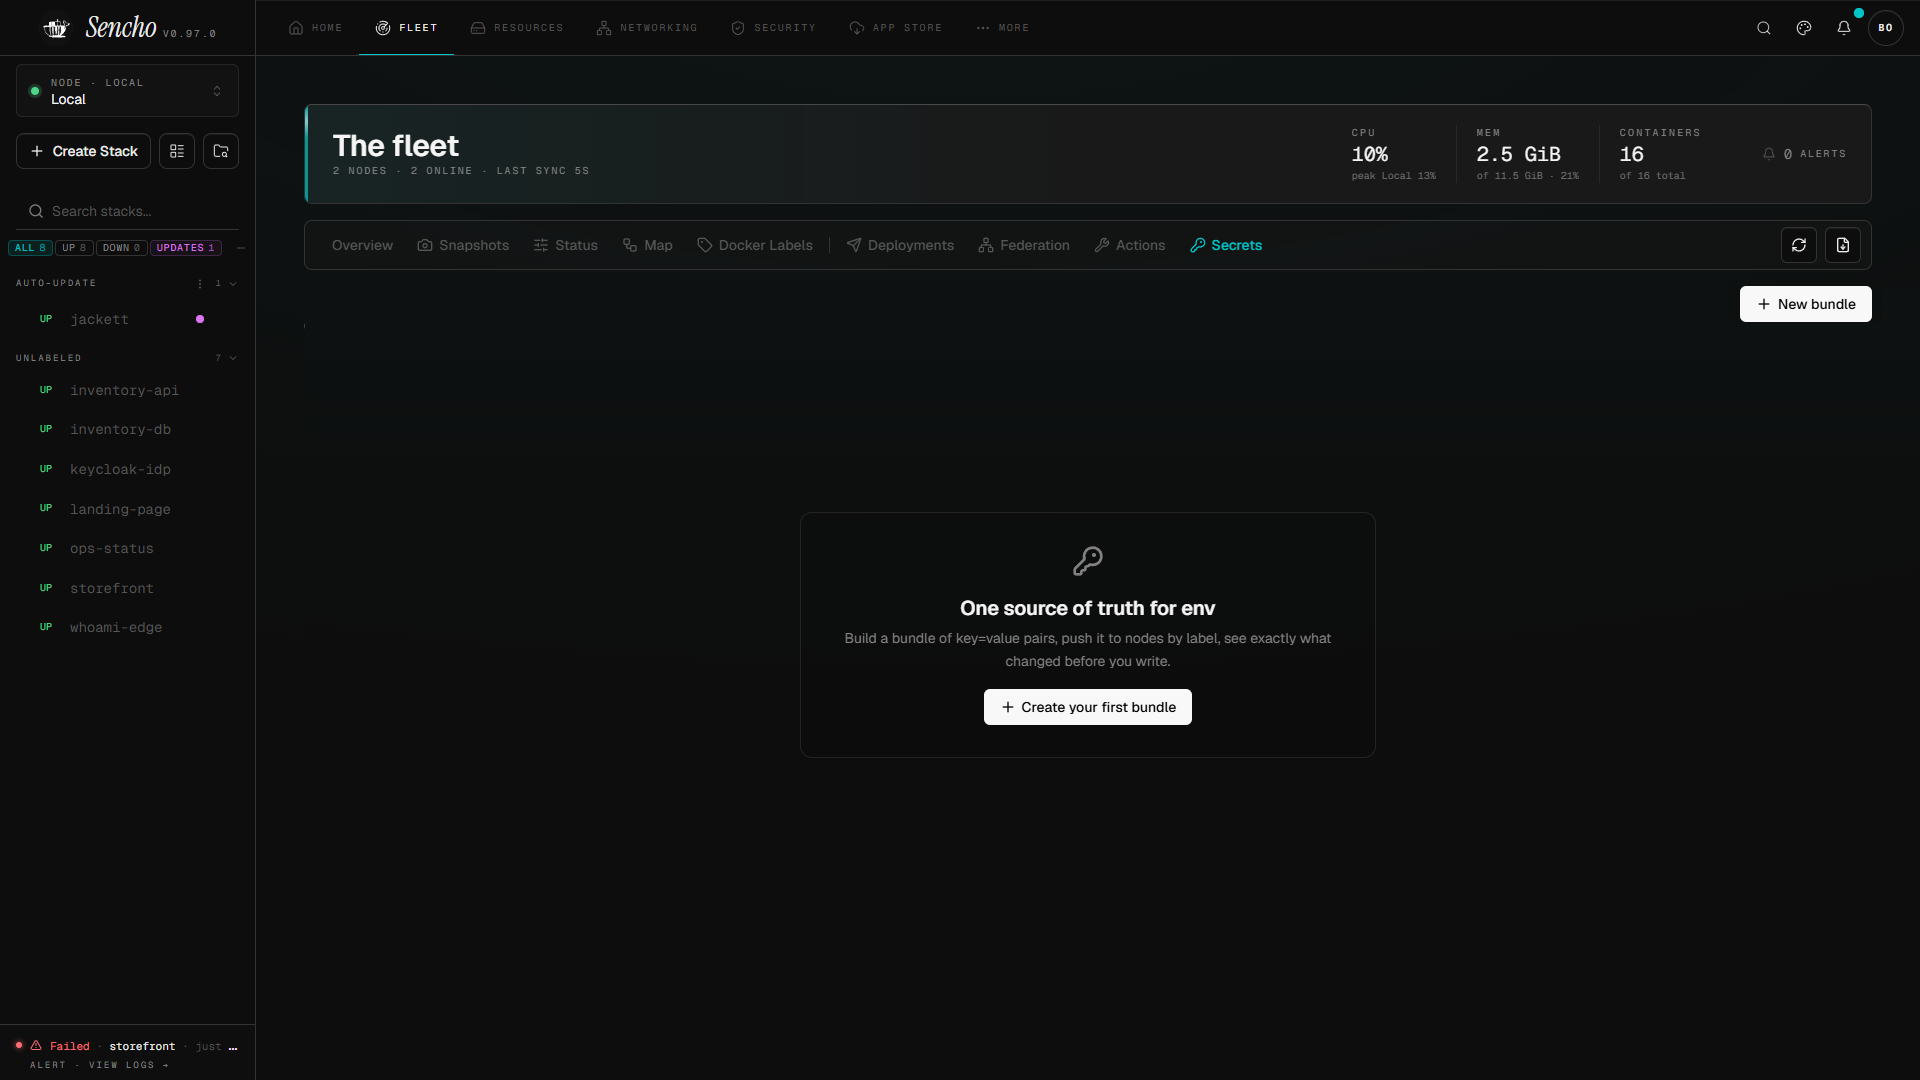
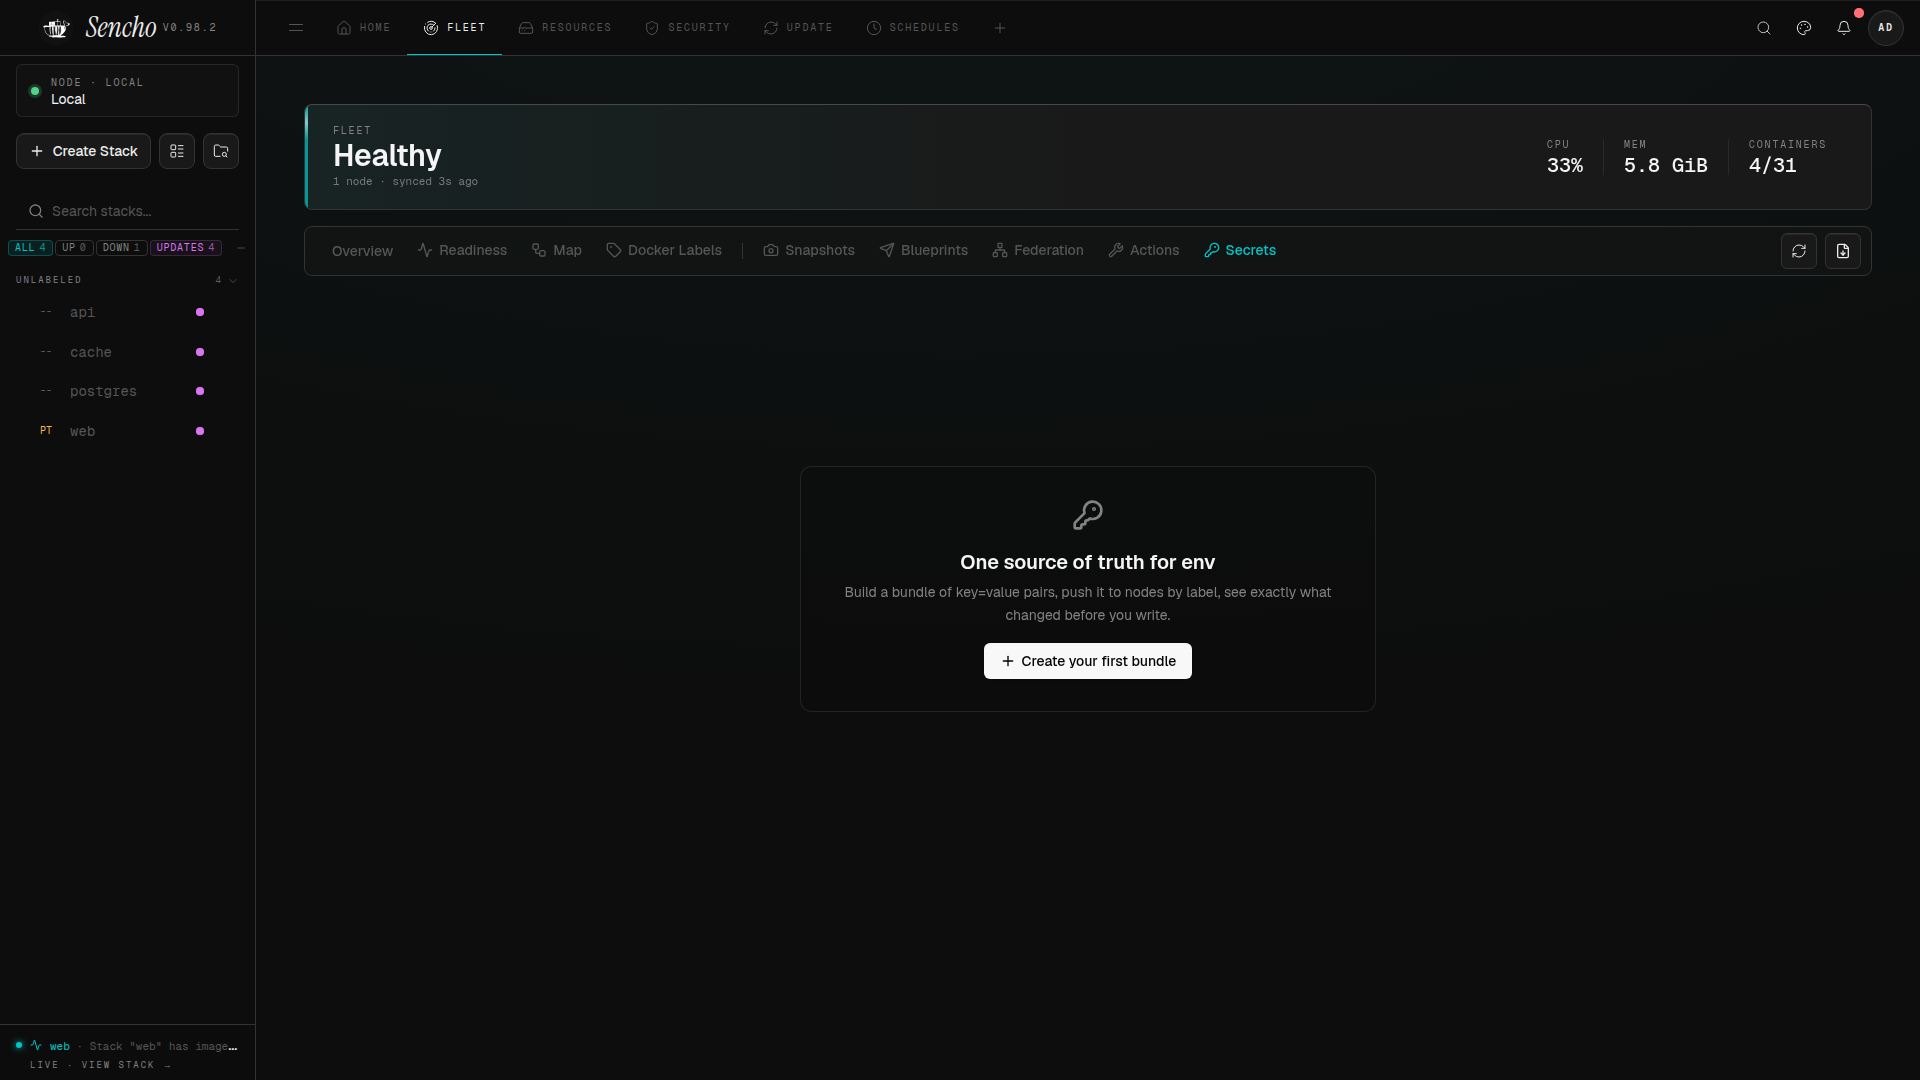
fix(fleet): keep one create action in empty snapshots and secrets tabs (#2275)
* fix(fleet): keep one create action in empty snapshots and secrets tabs

The empty card now carries the only create button while the list is empty,
and the tab action row returns with the populated list. The Snapshots pager
still renders its row whenever the list needs pagination.

Tests cover the empty and populated states for both tabs, and the empty
Secrets tutorial screenshot is refreshed to the current layout.

* test(fleet): cover the empty-state transitions for snapshots and secrets

Adds the non-admin, loading, delete-to-empty, and create-from-empty cases for
both tabs, tightens the create-button selectors to the two real labels, and
updates the tutorial and feature page to name the button each state offers.

diff --git a/frontend/src/components/__tests__/FleetSnapshots.test.tsx b/frontend/src/components/__tests__/FleetSnapshots.test.tsx
@@ -553,4 +553,152 @@ describe('FleetSnapshots action row', () => {
       authState.isAdmin = true;
     }
   });
+
+  it('renders no Create Snapshot button for a non-admin in the empty state', async () => {
+    mockedFetch.mockImplementation(async (path: string) => {
+      if (path === '/fleet/snapshots') {
+        return { ok: true, json: async () => ({ snapshots: [], total: 0 }) } as Response;
+      }
+      return { ok: true, json: async () => ({}) } as Response;
+    });
+    authState.isAdmin = false;
+    try {
+      render(<FleetSnapshots />);
+      await screen.findByText('No snapshots yet');
+      expect(screen.queryByRole('button', { name: /Create Snapshot/ })).not.toBeInTheDocument();
+    } finally {
+      authState.isAdmin = true;
+    }
+  });
+
+  it('offers a single Create Snapshot button in the empty state and opens the form', async () => {
+    mockedFetch.mockImplementation(async (path: string) => {
+      if (path === '/fleet/snapshots') {
+        return { ok: true, json: async () => ({ snapshots: [], total: 0 }) } as Response;
+      }
+      return { ok: true, json: async () => ({}) } as Response;
+    });
+
+    render(<FleetSnapshots />);
+    await screen.findByText('No snapshots yet');
+
+    const createButtons = screen.getAllByRole('button', { name: /Create Snapshot/ });
+    expect(createButtons).toHaveLength(1);
+    fireEvent.click(createButtons[0]);
+
+    expect(screen.getByPlaceholderText('Snapshot description (optional)')).toBeInTheDocument();
+    expect(screen.queryByRole('button', { name: /Create Snapshot/ })).not.toBeInTheDocument();
+  });
+
+  it('keeps the pager and one Create Snapshot button once the list is populated', async () => {
+    mockedFetch.mockImplementation(async (path: string) => {
+      if (path === '/fleet/snapshots') {
+        return {
+          ok: true,
+          json: async () => ({
+            snapshots: Array.from({ length: 11 }, (_, i) => ({
+              id: i + 1, description: `snapshot ${i + 1}`, created_by: 'admin', node_count: 1, stack_count: 1,
+              skipped_nodes: '[]', skipped_stacks: '[]', created_at: Date.now(), has_documentation: 0,
+            })),
+            total: 11,
+          }),
+        } as Response;
+      }
+      return { ok: true, json: async () => ({}) } as Response;
+    });
+
+    render(<FleetSnapshots />);
+    await screen.findByText('snapshot 1');
+
+    expect(screen.getByText('1 / 2')).toBeInTheDocument();
+    expect(screen.getAllByRole('button', { name: /Create Snapshot/ })).toHaveLength(1);
+    expect(screen.queryByText('No snapshots yet')).toBeNull();
+  });
+
+  it('keeps the row action while loading, then hands it to the empty card', async () => {
+    let resolveList: (value: Response) => void = () => {};
+    const pending = new Promise<Response>((resolve) => { resolveList = resolve; });
+    mockedFetch.mockImplementation(async (path: string) => {
+      if (path === '/fleet/snapshots') return pending;
+      return { ok: true, json: async () => ({}) } as Response;
+    });
+
+    render(<FleetSnapshots />);
+    expect(await screen.findByRole('button', { name: /Create Snapshot/ })).toBeInTheDocument();
+    expect(screen.queryByText('No snapshots yet')).toBeNull();
+
+    resolveList({ ok: true, json: async () => ({ snapshots: [], total: 0 }) } as Response);
+    await screen.findByText('No snapshots yet');
+    expect(screen.getAllByRole('button', { name: /Create Snapshot/ })).toHaveLength(1);
+  });
+
+  it('returns to the empty card when the last snapshot is deleted', async () => {
+    mockedFetch.mockImplementation(async (path: string, options?: Parameters<typeof apiFetch>[1]) => {
+      if (path === '/fleet/snapshots' && options?.method !== 'DELETE') {
+        return {
+          ok: true,
+          json: async () => ({
+            snapshots: [{
+              id: 1, description: 'one', created_by: 'admin', node_count: 1, stack_count: 1,
+              skipped_nodes: '[]', skipped_stacks: '[]', created_at: Date.now(), has_documentation: 0,
+            }],
+            total: 1,
+          }),
+        } as Response;
+      }
+      if (path === '/fleet/snapshots/1' && options?.method === 'DELETE') {
+        return { ok: true, json: async () => ({ success: true }) } as Response;
+      }
+      return { ok: true, json: async () => ({}) } as Response;
+    });
+
+    render(<FleetSnapshots />);
+    const row = (await screen.findByText('one')).closest('tr');
+    expect(row).not.toBeNull();
+    const rowButtons = within(row as HTMLElement).getAllByRole('button');
+    fireEvent.click(rowButtons[rowButtons.length - 1]);
+
+    const dialog = await screen.findByRole('alertdialog');
+    fireEvent.click(within(dialog).getByRole('button', { name: 'Delete' }));
+
+    await screen.findByText('No snapshots yet');
+    expect(screen.getAllByRole('button', { name: /Create Snapshot/ })).toHaveLength(1);
+  });
+
+  it('moves from the empty card to the populated row after creating a snapshot', async () => {
+    let created = false;
+    mockedFetch.mockImplementation(async (path: string, options?: Parameters<typeof apiFetch>[1]) => {
+      if (path === '/fleet/snapshots' && options?.method === 'POST') {
+        created = true;
+        return { ok: true, json: async () => ({ id: 1 }) } as Response;
+      }
+      if (path === '/fleet/snapshots') {
+        return {
+          ok: true,
+          json: async () => ({
+            snapshots: created
+              ? [{
+                id: 1, description: 'fresh', created_by: 'admin', node_count: 1, stack_count: 1,
+                skipped_nodes: '[]', skipped_stacks: '[]', created_at: Date.now(), has_documentation: 0,
+              }]
+              : [],
+            total: created ? 1 : 0,
+          }),
+        } as Response;
+      }
+      return { ok: true, json: async () => ({}) } as Response;
+    });
+
+    render(<FleetSnapshots />);
+    await screen.findByText('No snapshots yet');
+    fireEvent.click(screen.getByRole('button', { name: /Create Snapshot/ }));
+    fireEvent.change(screen.getByPlaceholderText('Snapshot description (optional)'), {
+      target: { value: 'fresh' },
+    });
+    fireEvent.click(screen.getByRole('button', { name: /^Create$/ }));
+
+    await screen.findByText('fresh');
+    expect(screen.queryByText('No snapshots yet')).toBeNull();
+    expect(screen.getAllByRole('button', { name: /Create Snapshot/ })).toHaveLength(1);
+  });
 });

diff --git a/frontend/src/components/fleet/secrets/SecretsTab.test.tsx b/frontend/src/components/fleet/secrets/SecretsTab.test.tsx
@@ -1,0 +1,93 @@
+/**
+ * SecretsTab: one create affordance per state. The empty card owns the call to
+ * action; the tab action row returns with the bundle list.
+ */
+import { describe, it, expect, vi, beforeEach, afterEach } from 'vitest';
+import { render, screen, waitFor } from '@testing-library/react';
+import userEvent from '@testing-library/user-event';
+import type { SecretSummary } from '@/lib/secretsApi';
+
+vi.mock('@/lib/secretsApi', async (importOriginal) => {
+    const actual = await importOriginal<typeof import('@/lib/secretsApi')>();
+    return {
+        ...actual,
+        listSecrets: vi.fn(),
+        deleteSecret: vi.fn(),
+    };
+});
+
+vi.mock('@/components/ui/toast-store', () => ({
+    toast: { error: vi.fn(), success: vi.fn(), warning: vi.fn(), info: vi.fn(), loading: vi.fn(), dismiss: vi.fn() },
+}));
+
+vi.mock('@/context/NodeContext', () => ({
+    useNodes: () => ({ nodes: [] }),
+}));
+
+import { deleteSecret, listSecrets } from '@/lib/secretsApi';
+import { SecretsTab } from './SecretsTab';
+
+const bundle: SecretSummary = {
+    id: 4,
+    name: 'app-config',
+    description: 'Shared environment for the app stack',
+    currentVersion: 1,
+    keyCount: 2,
+    createdAt: 0,
+    createdBy: 'admin',
+    updatedAt: 0,
+};
+
+const createButtons = () => screen.queryAllByRole('button', { name: /^(New bundle|Create your first bundle)$/ });
+
+beforeEach(() => {
+    vi.clearAllMocks();
+});
+
+afterEach(() => {
+    vi.restoreAllMocks();
+});
+
+describe('SecretsTab create affordance', () => {
+    it('offers a single create button in the empty state and opens the bundle sheet', async () => {
+        vi.mocked(listSecrets).mockResolvedValue([]);
+        render(<SecretsTab />);
+
+        await waitFor(() => expect(screen.getByText('One source of truth for env')).toBeInTheDocument());
+        expect(screen.queryByRole('button', { name: 'New bundle' })).toBeNull();
+        const create = screen.getByRole('button', { name: /Create your first bundle/i });
+        expect(createButtons()).toHaveLength(1);
+
+        await userEvent.click(create);
+        expect(await screen.findByText('New secret bundle')).toBeInTheDocument();
+    });
+
+    it('keeps the action row button and drops the empty card once bundles exist', async () => {
+        vi.mocked(listSecrets).mockResolvedValue([bundle]);
+        render(<SecretsTab />);
+
+        await waitFor(() => expect(screen.getByText('app-config')).toBeInTheDocument());
+        expect(screen.queryByText('One source of truth for env')).toBeNull();
+        expect(createButtons()).toHaveLength(1);
+        expect(screen.getByRole('button', { name: 'New bundle' })).toBeInTheDocument();
+
+        await userEvent.click(screen.getByRole('button', { name: 'New bundle' }));
+        expect(await screen.findByText('New secret bundle')).toBeInTheDocument();
+    });
+
+    it('returns to the empty card when the last bundle is deleted', async () => {
+        vi.spyOn(window, 'confirm').mockReturnValue(true);
+        vi.mocked(listSecrets).mockResolvedValueOnce([bundle]).mockResolvedValueOnce([]);
+        vi.mocked(deleteSecret).mockResolvedValue();
+
+        render(<SecretsTab />);
+        await waitFor(() => expect(screen.getByText('app-config')).toBeInTheDocument());
+        expect(createButtons()).toHaveLength(1);
+
+        await userEvent.click(screen.getByRole('button', { name: 'Delete' }));
+
+        await waitFor(() => expect(screen.getByText('One source of truth for env')).toBeInTheDocument());
+        expect(createButtons()).toHaveLength(1);
+        expect(screen.getByRole('button', { name: 'Create your first bundle' })).toBeInTheDocument();
+    });
+});

diff --git a/frontend/src/components/FleetSnapshots.tsx b/frontend/src/components/FleetSnapshots.tsx
@@ -165,6 +165,9 @@ export default function FleetSnapshots() {
     const safePage = Math.min(page, totalPages - 1);
     const pagedSnapshots = snapshots.slice(safePage * PAGE_SIZE, (safePage + 1) * PAGE_SIZE);
     const needsPagination = snapshots.length > PAGE_SIZE;
+    // With no rows the empty card carries the admin's create action, so the
+    // action row must not repeat it. While loading, the row keeps the action.
+    const showsEmptyState = !loading && snapshots.length === 0;
 
     // --- Data Fetching ---
 
@@ -926,7 +929,7 @@ export default function FleetSnapshots() {
 
     return (
         <div className="space-y-4">
-            {(needsPagination || (isAdmin && !showCreateForm)) && (
+            {(needsPagination || (isAdmin && !showCreateForm && !showsEmptyState)) && (
                 <FleetTabActions>
                     {needsPagination && (
                         <div className="flex items-center gap-1.5">
@@ -991,7 +994,7 @@ export default function FleetSnapshots() {
                         ))}
                     </div>
                 </div>
-            ) : snapshots.length === 0 ? (
+            ) : showsEmptyState ? (
                 <FleetEmptyState>
                     <FleetEmptyCard
                         icon={Camera}

diff --git a/frontend/src/components/fleet/secrets/SecretsTab.tsx b/frontend/src/components/fleet/secrets/SecretsTab.tsx
@@ -70,11 +70,13 @@ export function SecretsTab() {
 
     return (
         <div className="space-y-4">
-            <FleetTabActions>
-                <Button type="button" onClick={() => setCreating(true)} className="gap-1.5">
-                    <Plus className="w-4 h-4" /> New bundle
-                </Button>
-            </FleetTabActions>
+            {items.length > 0 && (
+                <FleetTabActions>
+                    <Button type="button" onClick={() => setCreating(true)} className="gap-1.5">
+                        <Plus className="w-4 h-4" /> New bundle
+                    </Button>
+                </FleetTabActions>
+            )}
 
             {items.length === 0 ? (
                 <FleetEmptyState>
